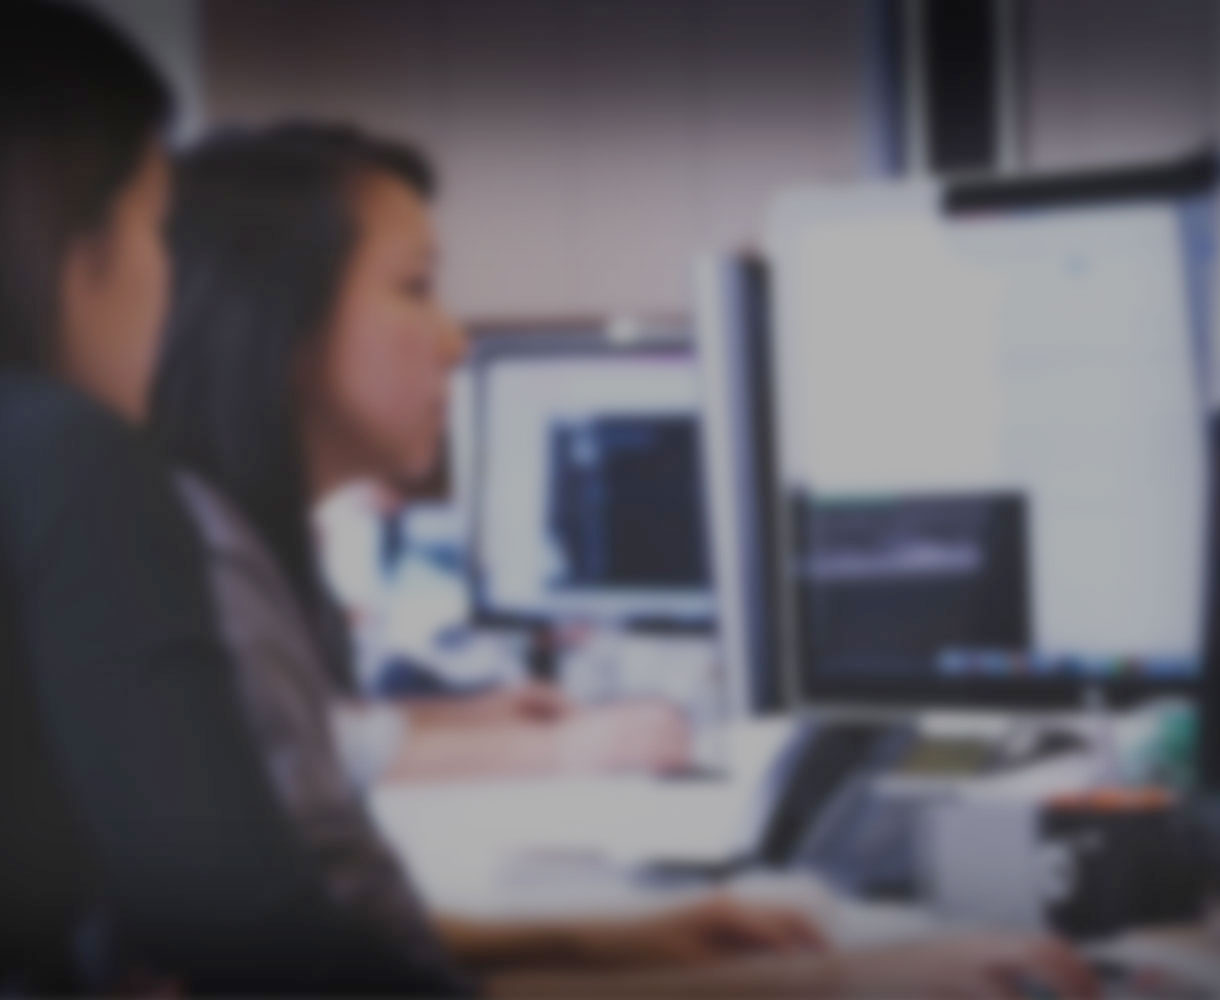
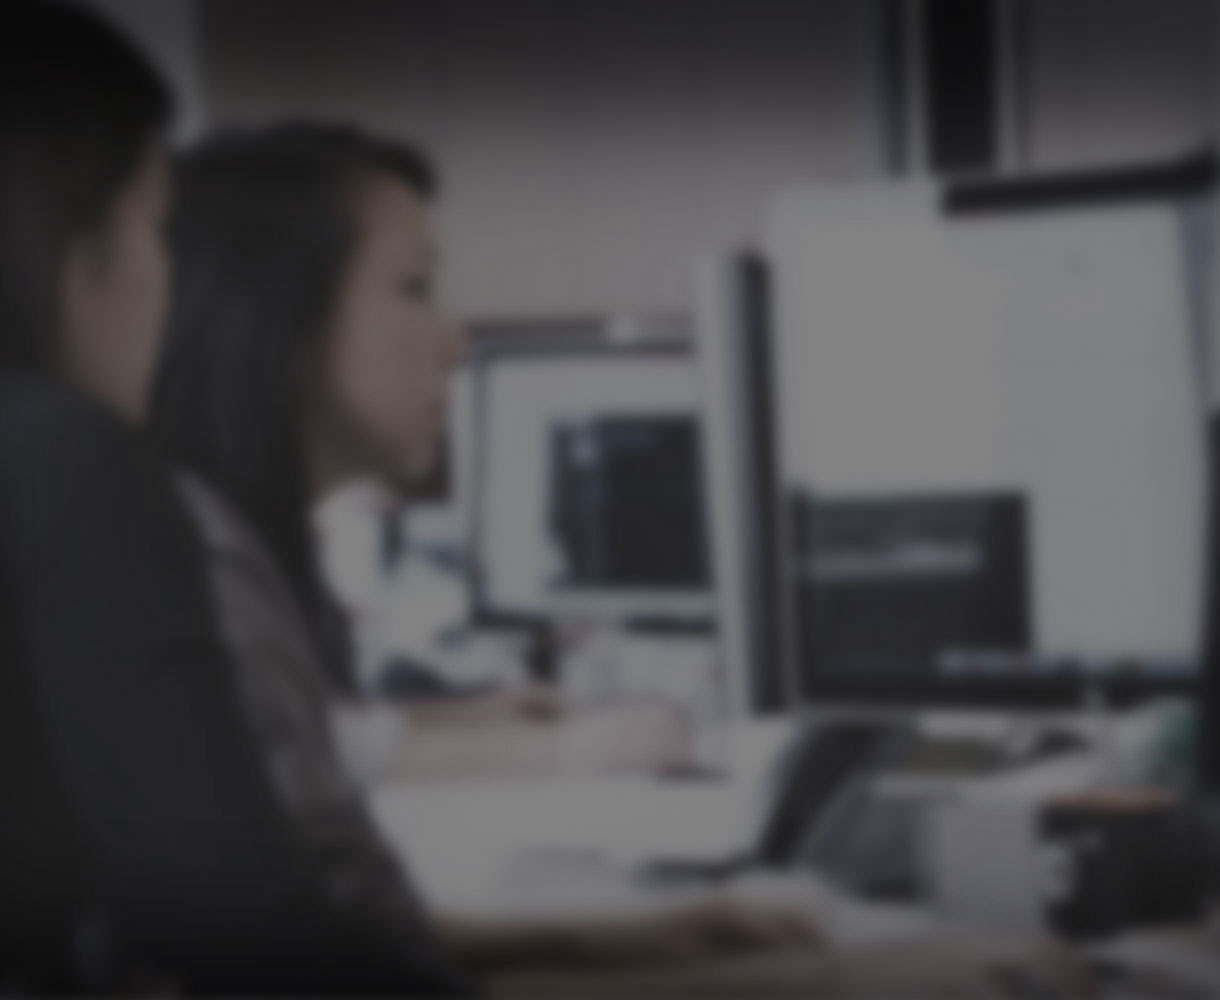
look/feel/content updates

diff --git a/css/main.css b/css/main.css
@@ -37,7 +37,7 @@ h4 {
     padding: 60px 50px;
 }
 .homebgimage {
-    background: #000 url("../images/cpp-main2-1220x1000.jpg") no-repeat;
+    background: #f4511e url("../images/cpp-main2-1220x1000.jpg") no-repeat;
     background-size: 100%;
 }
 
@@ -188,6 +188,22 @@ h4 {
     letter-spacing: 0px;
 }
 
+.btn-org {
+    color: #fff !important;
+    background-color: #f4511e;
+    margin: 0px 0px;
+    border: 1px solid #f4511e;
+    padding: 9px 15px;
+    letter-spacing: 0px;
+}
+.btn-org:hover {
+    color: #f4511e !important;
+    background-color: #fff;
+    margin: 0px 0px;
+    border: 1px solid #f4511e;
+    padding: 9px 15px;
+    letter-spacing: 0px;
+}
 .navbar .link-btn:hover {
     color: #666 !important;
     background-color: #f0f0f0;

diff --git a/index.php b/index.php
@@ -35,40 +35,41 @@
                 <div class="collapse navbar-collapse" id="myNavbar">
                     <ul class="nav navbar-nav navbar-right">
                         <li class="dropdown">
-                            <a class="dropdown-toggle" data-toggle="dropdown" href="#">FEATURES<span class="caret"></span></a>
+                            <a class="dropdown-toggle" data-toggle="dropdown" href="#">THE JOURNEY<span class="caret"></span></a>
                             
                             <ul class="dropdown-menu">
                                 <li><a href="#about">ABOUT</a></li>
                                 <li><a href="#careerpath">CAREER PATH</a></li>
+                                <li><a href="#pricing">PRICING</a></li>
                                 <li><a href="#contact">CONTACT</a></li> 
                               </ul>
                             </li>
-                            
-                        <li><a href="#careerpath">CAREER PATH</a></li>
-                        <li><a href="#pricing">PRICING</a></li>
-                        <!--<li><a href="#contact">CONTACT</a></li>
-                        <li><a href="#signup" class="btn link-btn" role="button">Sign Up</a></li>
-                        <li><a href="careerpath.php" class="btn link-btn-wht" role="button">Login</a></li>-->
-                   
-                        <li>
-                            <form class="form-inline" action="careerpath.php">
-                                <div class="form-group">
-                                  <input type="email" class="form-control" id="email" placeholder="Enter email">
-                                </div>
-                                <div class="form-group">
-                                  <input type="password" class="form-control" id="pwd" placeholder="Enter password">
-                                </div>
-                                <button type="submit" class="btn btn-default">Login</button>
-                            </form>
-                        </li> 
+                            <li>&nbsp;&nbsp;&nbsp;&nbsp;</li>
+                            <!--<li><a href="#careerpath">CAREER PATH</a></li>
+                            <li><a href="#pricing">PRICING</a></li>
+                            <li><a href="#contact">CONTACT</a></li>
+                            <li><a href="#signup" class="btn link-btn" role="button">Sign Up</a></li>
+                            <li><a href="careerpath.php" class="btn link-btn-wht" role="button">Login</a></li>-->
+
+                            <li>
+                                <form class="form-inline" action="careerpath.php">
+                                    <div class="form-group">
+                                      <input type="email" class="form-control" id="email" placeholder="Enter email">
+                                    </div>
+                                    <div class="form-group">
+                                      <input type="password" class="form-control" id="pwd" placeholder="Enter password">
+                                    </div>
+                                    <button type="submit" class="btn btn-default">Login</button>
+                                </form>
+                            </li> 
                     </ul>
                 </div>
             </div>
         </nav>
  
 
-        <div  class="container-fluid homebgimage">
-            <div class="row ">
+        <div id='signup' class="container-fluid homebgimage">
+            <div class="row">
             <br>
                 <div class="col-sm-2"></div>
 
@@ -84,6 +85,8 @@
                         Whether you are a new grad or a seasoned professional, if you're in the job market you're likely overlooking one of the most critical aspects of turning an opportunity into a job offer.
                         It's the journey. Career Path Plus is designed to walk you though a proven methodology to take you from applicant to employed. 
                     </p>
+                    
+                    <a href="#about" class="btn btn-lg btn-org" role="button">Learn more</a>
                     
                 </div>
                 
@@ -112,7 +115,7 @@
                             <div class="text-center">
                             By clicking Join now, you agree to the Career Path Plus User Agreement, Privacy Policy, and Cookie Policy.
                             <br><br>
-                            <button type="submit" class="btn btn-default btn-lg font-orange" >Sign me up!</button>
+                            <button type="submit" class="btn btn-default btn-lg btn-org" >Sign me up!</button>
                             </div>
                         </form>
                         
@@ -141,43 +144,43 @@
 
         
         <!-- Container (Career Path Section) -->
-        <div id="careerpath" class="container-fluid bg-grey text-center">
+        <div id="careerpath" class="container-fluid text-center">
             <h2>Career Path</h2>
             <h4>What we offer</h4>
             <br>
             <div class="row slideanim">
                 <div class="col-sm-4">
-                    <span class="glyphicon glyphicon-off logo-small"></span>
-                    <h4>POWER</h4>
-                    <p>Lorem ipsum dolor sit amet..</p>
+                    <span class="glyphicon glyphicon-th-list logo-small"></span>
+                    <h4>Opportunity Pipeline</h4>
+                    <p>Track your job opportunities from application to employment. Store critical information so you can easily refer back if you get <i><strong>"The call"</strong></i>.</p>
                 </div>
                 <div class="col-sm-4">
-                    <span class="glyphicon glyphicon-heart logo-small"></span>
-                    <h4>LOVE</h4>
-                    <p>Lorem ipsum dolor sit amet..</p>
+                    <span class="glyphicon glyphicon-file logo-small"></span>
+                    <h4>Resume Online</h4>
+                    <p>When was the last time you tuned up your resume? Keep your resume up-to-date and accessible in the cloud so you get get it and send it when you need it the most.</p>
                 </div>
                 <div class="col-sm-4">
-                    <span class="glyphicon glyphicon-lock logo-small"></span>
-                    <h4>JOB DONE</h4>
-                    <p>Lorem ipsum dolor sit amet..</p>
+                    <span class="glyphicon glyphicon-envelope logo-small"></span>
+                    <h4>Cover Letter Online</h4>
+                    <p>Use our cover letter template and keep a copy for each job opportunity. Yes, having a cover letter will give you the edge you need to look professional and stay top of mind for your next prospective employer.</p>
                 </div>
             </div>
             <br><br>
             <div class="row slideanim">
                 <div class="col-sm-4">
-                    <span class="glyphicon glyphicon-leaf logo-small"></span>
-                    <h4>GREEN</h4>
-                    <p>Lorem ipsum dolor sit amet..</p>
+                    <span class="glyphicon glyphicon-send logo-small"></span>
+                    <h4>Follow Up Letter?</h4>
+                    <p>Yes, if you're not using one you're losing out. We've got you covered with templates and insight on how and why to use a follow up letter.</p>
                 </div>
                 <div class="col-sm-4">
-                    <span class="glyphicon glyphicon-certificate logo-small"></span>
-                    <h4>CERTIFIED</h4>
-                    <p>Lorem ipsum dolor sit amet..</p>
+                    <span class="glyphicon glyphicon-refresh logo-small"></span>
+                    <h4>Proven Process</h4>
+                    <p>One definition of insanity is doing the same thing and expecting a different result. If what you're doing isn't working it's time to use a proven process to see the results you're looking for.</p>
                 </div>
                 <div class="col-sm-4">
-                    <span class="glyphicon glyphicon-wrench logo-small"></span>
-                    <h4 style="color:#303030;">HARD WORK</h4>
-                    <p>Lorem ipsum dolor sit amet..</p>
+                    <span class="glyphicon glyphicon-ok-circle logo-small"></span>
+                    <h4 style="color:#303030;">Get Started</h4>
+                    <p>There is one thing keeping you from taking your first step to getting your next job. You have to <a href='#signup'>Sign Up!</a></p>
                 </div>
             </div>
         </div>
@@ -186,7 +189,7 @@
 
 
         <!-- Container (Pricing Section) -->
-        <div id="pricing" class="container-fluid">
+        <div id="pricing" class="container-fluid bg-grey">
             <div class="text-center">
                 <h2>Pricing</h2>
                 <h4>Get started with your <strong>30 day free trial</strong> <br/>
@@ -254,40 +257,58 @@
         </div>
 
         <!-- Container (Contact Section) -->
-        <div id="contact" class="container-fluid bg-grey">
-            <h2 class="text-center">CONTACT</h2>
+        <div id="contact" class="container-fluid" style="background: #32363f; color: #fff;">
             <div class="row">
-                <div class="col-sm-5">
-                    <p>Contact us and we'll get back to you within 24 hours.</p>
-                    <p><span class="glyphicon glyphicon-map-marker"></span> Chicago, US</p>
-                    <p><span class="glyphicon glyphicon-phone"></span> +00 1515151515</p>
-                    <p><span class="glyphicon glyphicon-envelope"></span> myemail@something.com</p>
+                <div class="col-sm-4">
+                    <h4 style="color: #d4d5d7;">About</h4>
+                    <ul>
+                        <li><a href="#about" style="color:#fff;">About</a></li>
+                        <li><a href="#pricing" style="color:#fff;">Pricing</a></li>
+                        <li><a href="#careerpath" style="color:#fff;">Career Path</a></li>
+                        <li><a href="#careerpath" style="color:#fff;">Terms of Service</a></li>
+                        <li><a href="#careerpath" style="color:#fff;">Privacy Policy</a></li>
+                    </ul>
                 </div>
-                <div class="col-sm-7 slideanim">
+              
+                <div class="col-sm-4">
+                    <h4 style="color: #d4d5d7;">Contact</h4>
+                    
                     <div class="row">
-                        <div class="col-sm-6 form-group">
-                            <input class="form-control" id="name" name="name" placeholder="Name" type="text" required>
-                        </div>
-                        <div class="col-sm-6 form-group">
-                            <input class="form-control" id="email" name="email" placeholder="Email" type="email" required>
-                        </div>
+                      <div class="col-sm-6 form-group">
+                        <input class="form-control" id="name" name="name" placeholder="Name" type="text" required>
+                      </div>
+                      <div class="col-sm-6 form-group">
+                        <input class="form-control" id="email" name="email" placeholder="Email" type="email" required>
+                      </div>
                     </div>
-                    <textarea class="form-control" id="comments" name="comments" placeholder="Comment" rows="5"></textarea><br>
+
+                    <textarea class="form-control" id="comments" name="comments" placeholder="Comment" rows="5"></textarea>
+                    <br>
                     <div class="row">
-                        <div class="col-sm-12 form-group">
-                            <button class="btn btn-default pull-right" type="submit">Send</button>
-                        </div>
+                      <div class="col-md-12 form-group">
+                        <button class="btn pull-right btn-org" type="submit">Send</button>
+                      </div>
                     </div>
+   
+                </div>
+                <div class="col-sm-4">
+                    <h4 style="color: #d4d5d7;">Connect</h4>
+                    
+                        <a href="http://www.linkedin.com" target="_blank"><img src="images/FooterIcons_LinkedIn.jpg" class="img-responsive"></a>
+                        <a href="http://www.twitter.com" target="_blank"><img src="images/FooterIcons_Twitter.jpg" class="img-responsive"></a>
+                        <a href="http://www.youtube.com" target="_blank"><img src="images/FooterIcons_Youtube.jpg" class="img-responsive"></a>
+                   
                 </div>
             </div>
         </div>
-        
 
-        <footer class="container-fluid text-center">
-            <a href="#myPage" title="To Top">
-                <span class="glyphicon glyphicon-chevron-up"></span>
-            </a>
-            <p>Bootstrap Theme Made By <a href="http://www.w3schools.com" title="Visit w3schools">www.w3schools.com</a></p>
+        <footer class="container-fluid text-center" style="background: #222; color: #fff;">
+            <div class="row">
+                <div class="col-sm-4">
+                    <small style="color:#999999;">© Career Path Plus. All rights reserved.</small>
+                </div>
+                <div class="col-sm-4"></div>
+                <div class="col-sm-4"></div>
         </footer>
 
         <script>
